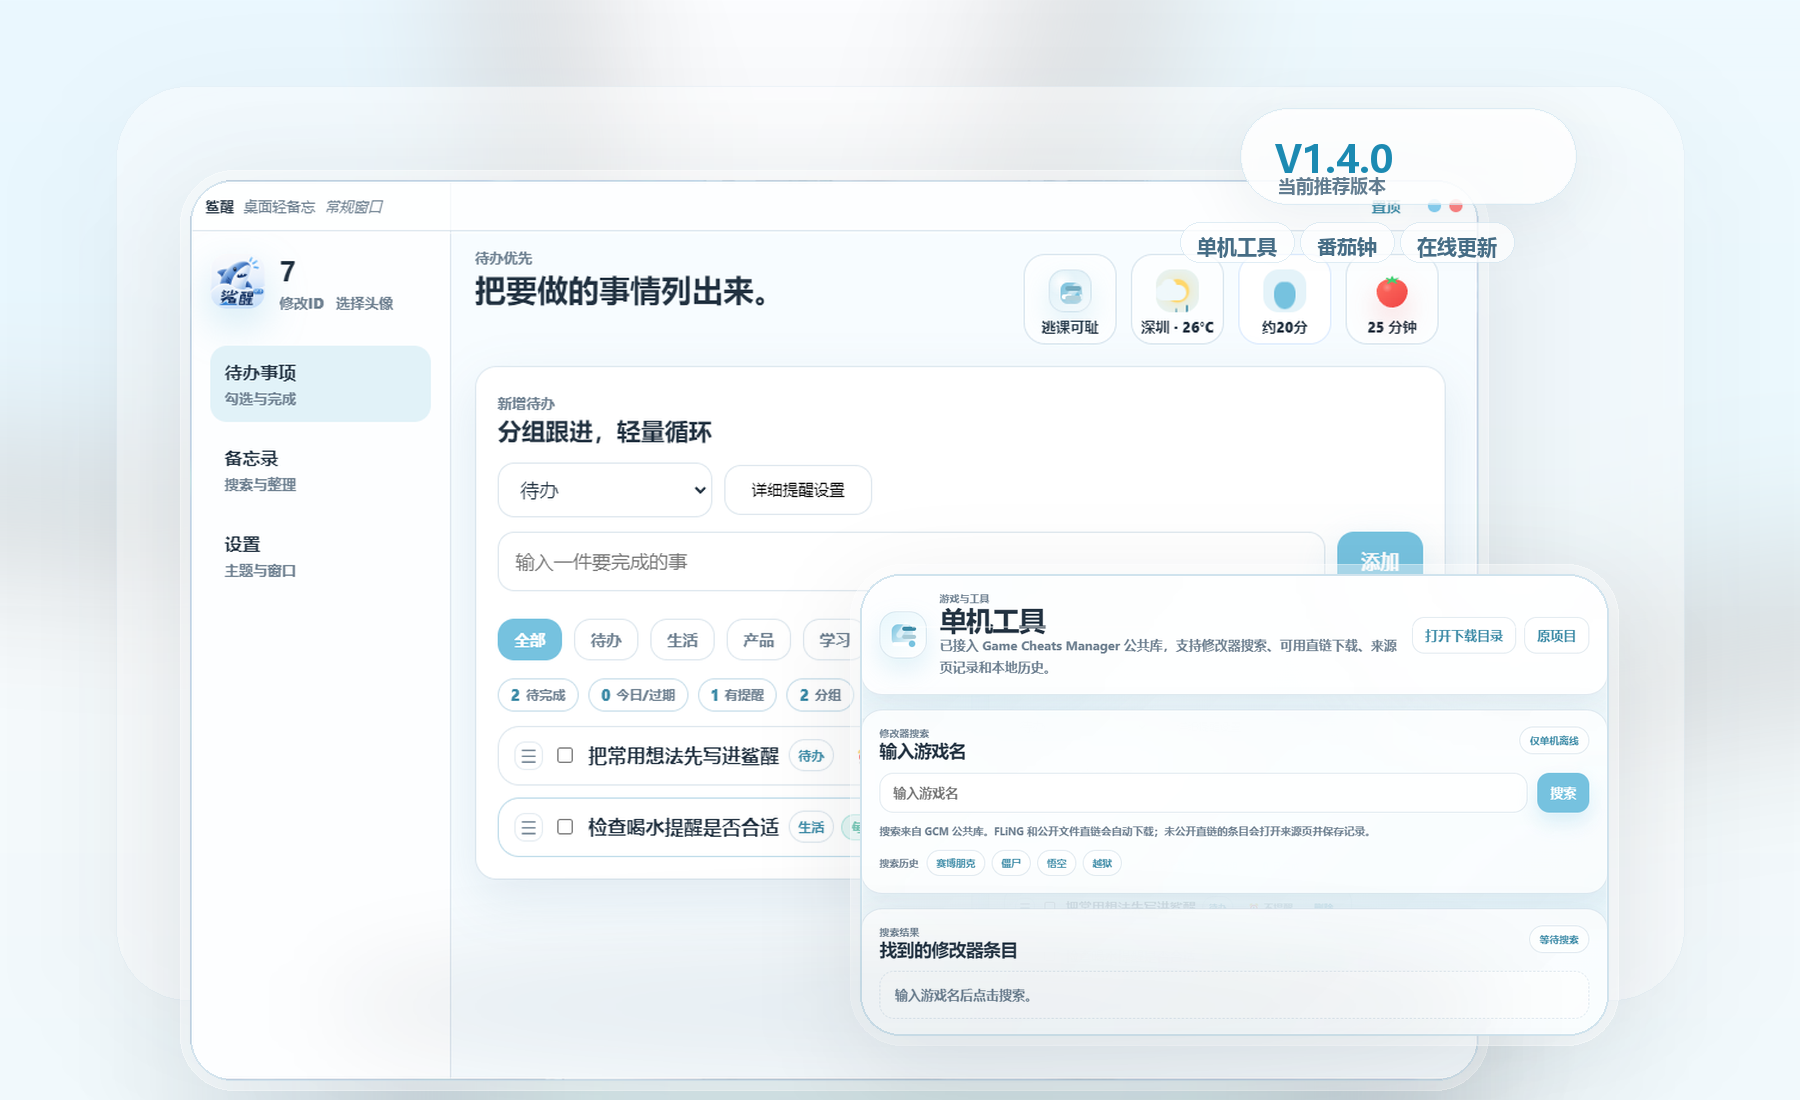
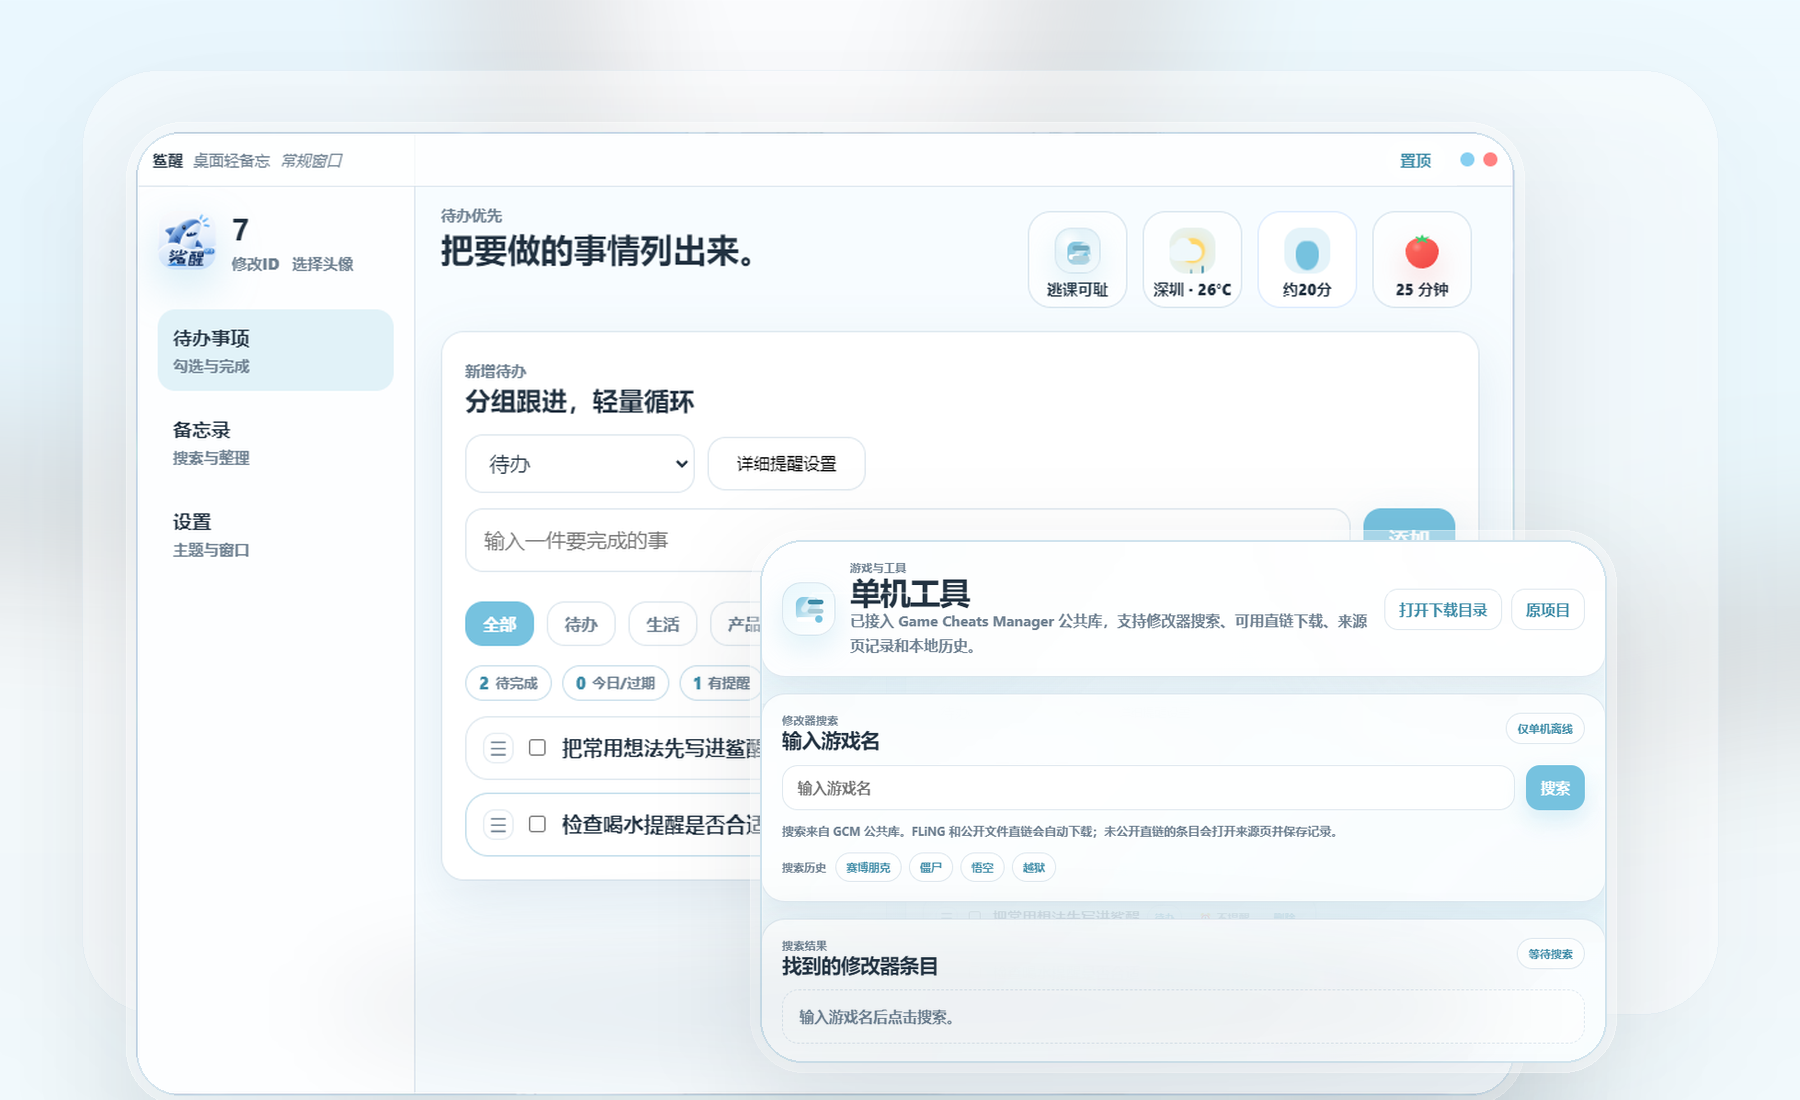
Improve homepage hero and retire pixel theme cache

diff --git a/index.html b/index.html
@@ -1672,8 +1672,8 @@ body[data-theme="pixel"] .version-card.patch-version {
 
 /* v1.4.0 premium homepage hero: cleaner Apple/iPhone-like product presentation */
 .product-stage {
-  width: min(1180px, 94vw);
-  margin-top: 58px;
+  width: min(1320px, 96vw);
+  margin-top: 48px;
   padding: 0;
   border: 0;
   border-radius: 40px;
@@ -1825,7 +1825,7 @@ body[data-theme="pixel"] .product-stage img {
 
         <div class="product-stage reveal" aria-label="鲨醒产品界面预览">
           <img
-            src="./assets/shaxing-product-v1.4.0.png?v=home-v140-final"
+            src="./assets/shaxing-product-v1.4.0.png?v=home-v140-clean-large"
             alt="鲨醒 v1.4.0 新版界面展示，包含待办、番茄钟、单机工具、下载进度和更新备用下载入口"
           />
         </div>

diff --git a/release-pages.css b/release-pages.css
@@ -1624,8 +1624,8 @@ body[data-theme="pixel"] .version-card.patch-version {
 
 /* v1.4.0 premium homepage hero: cleaner Apple/iPhone-like product presentation */
 .product-stage {
-  width: min(1180px, 94vw);
-  margin-top: 58px;
+  width: min(1320px, 96vw);
+  margin-top: 48px;
   padding: 0;
   border: 0;
   border-radius: 40px;
